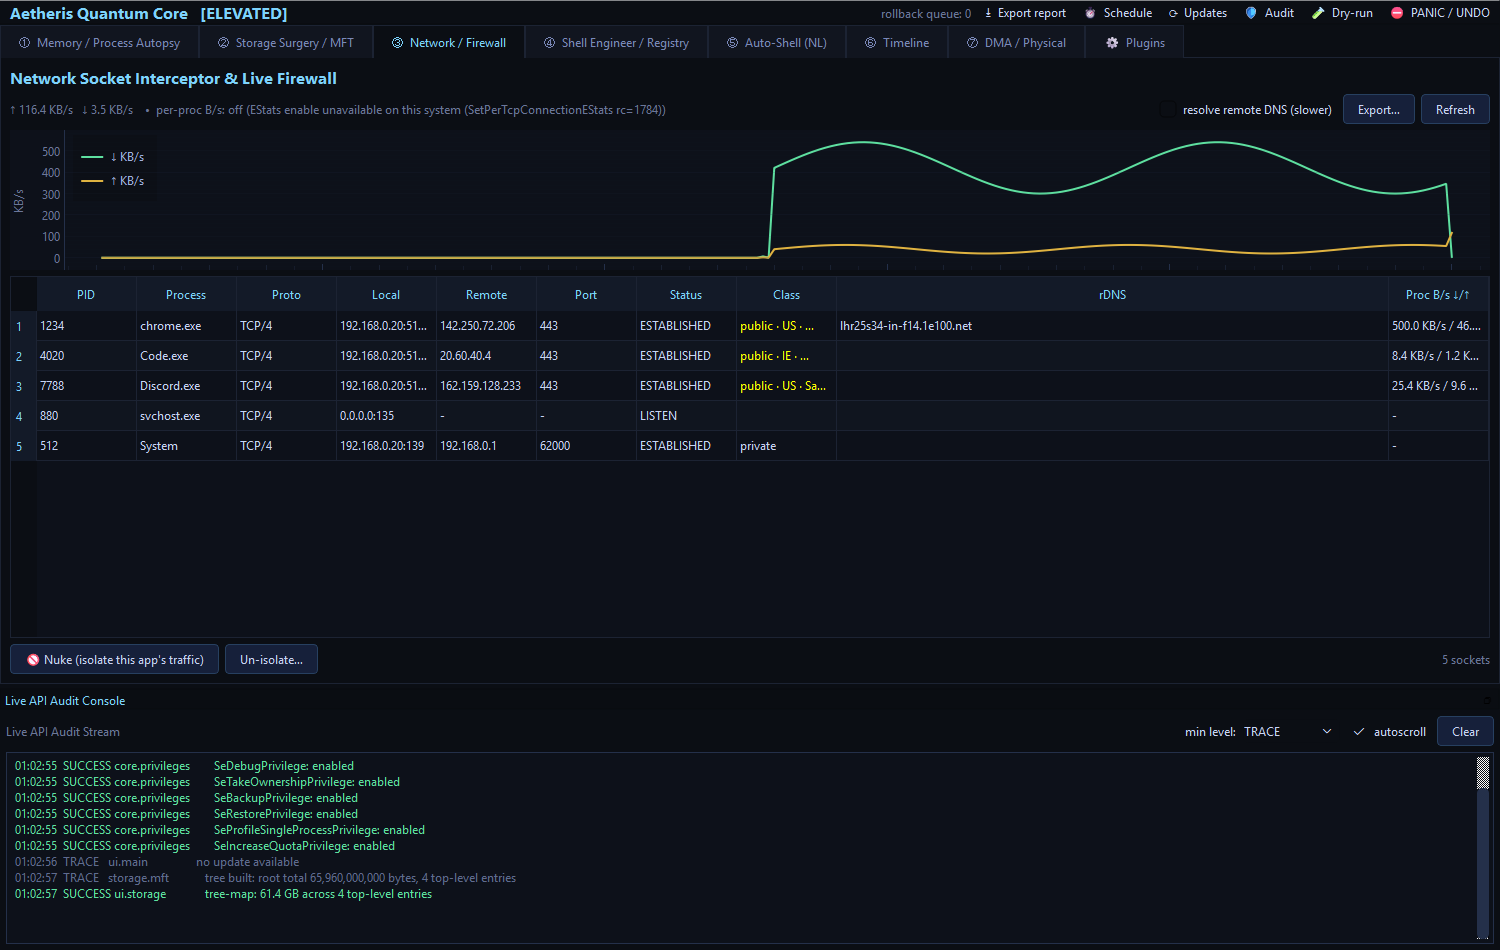
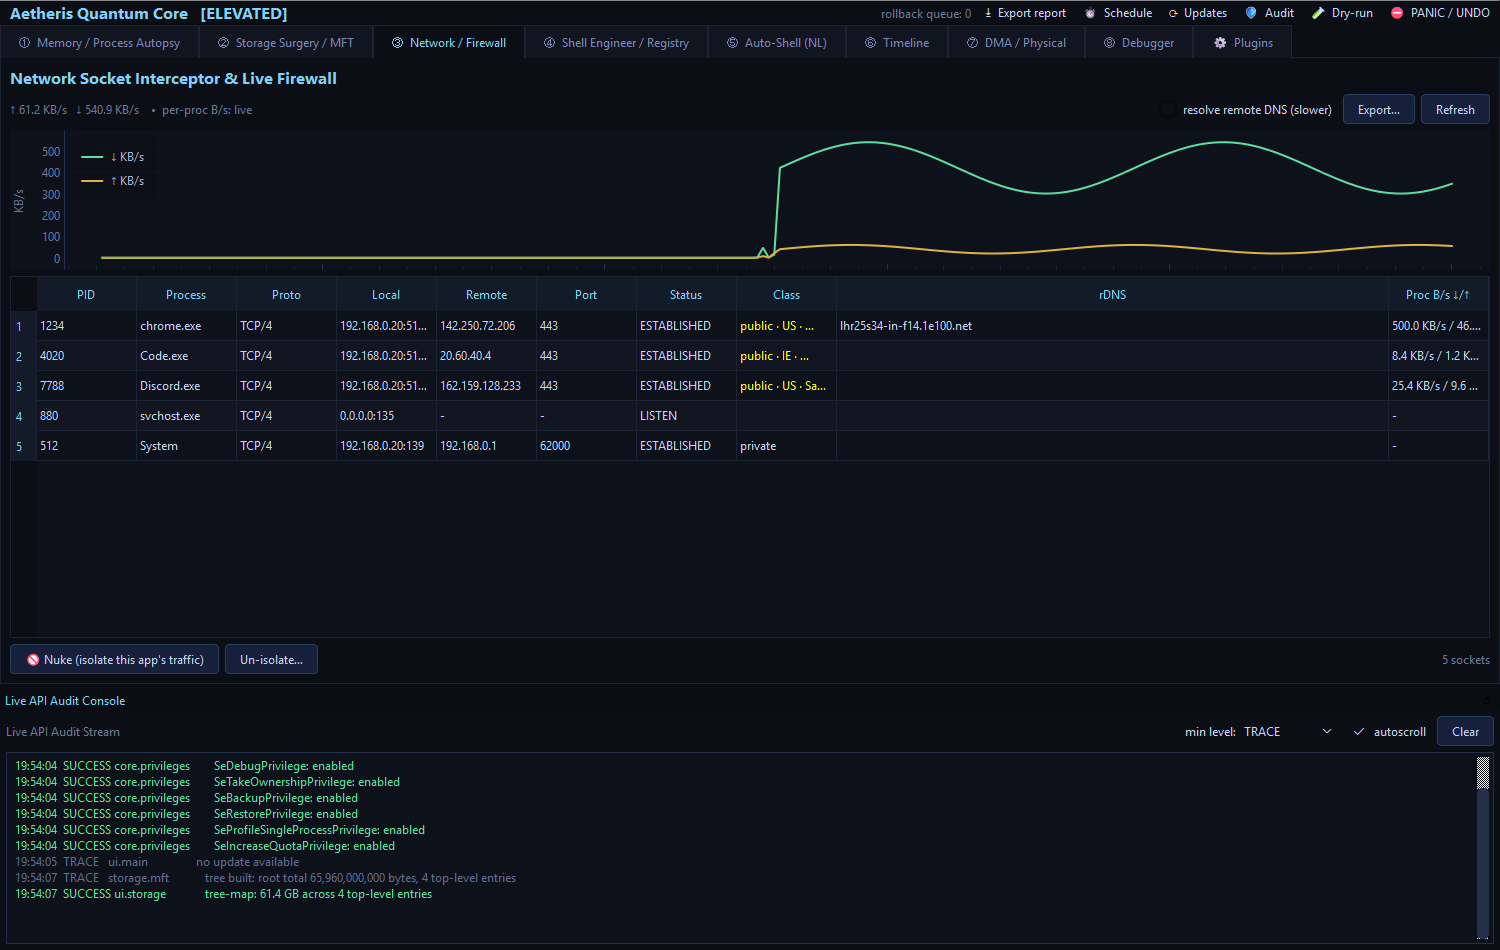
docs: Debugger tab — screenshots, README, ARCHITECTURE
Regenerated screenshots from the 9-tab UI: new 09-debugger.png (attached +
stopped at a breakpoint, register dump, memory read) and Plugins moves to
10-plugins.png; walkthrough GIF rebuilt to include it. README gains the Debugger
walkthrough cell and a feature-status row (tested pure core vs. hardware-gated
native loop), the layout tree notes forensics/debugger, and the test count is
updated to 202. ARCHITECTURE module map + diagram list the debugger module.

diff --git a/docs/make_screenshots.py b/docs/make_screenshots.py
@@ -33,7 +33,7 @@ from PyQt6.QtWidgets import QApplication, QTabWidget  # noqa: E402
 from aetheris.core import timeline as tl  # noqa: E402
 from aetheris.core.persistence import PersistenceEntry  # noqa: E402
 from aetheris.core.services import ServiceInfo  # noqa: E402
-from aetheris.forensics import memvirt  # noqa: E402
+from aetheris.forensics import debugger, memvirt  # noqa: E402
 from aetheris.forensics.memvirt import Capabilities  # noqa: E402
 from aetheris.forensics.processes import ProcessInfo  # noqa: E402
 from aetheris.network.connections import Connection  # noqa: E402
@@ -235,13 +235,42 @@ def main() -> None:
     dma_tab.out.appendPlainText("✓ wrote 4 bytes @ 0x1a2b3040")
     w.tabs.setCurrentIndex(6); pump(0.4); shot("08-dma.png")
 
-    plugins_tab = w.tabs.widget(7)
+    dbg = w.tabs.widget(7)
+    dbg.status.setText("attached to target.exe (pid 8321) — stopped at breakpoint")
+    dbg.attach_btn.setEnabled(False)
+    dbg.detach_btn.setEnabled(True)
+    dbg.cont_btn.setEnabled(True)
+    dbg.step_btn.setEnabled(True)
+    dbg.bp_addr.setText("7ff6a1b2c3d0")
+    dbg.mem_addr.setText("7ff6a1b2c3d0")
+    dbg.bp_list.setText("0x7ff6a1b2c3d0  0x7ff6a1b2c4a0")
+    regs = {"Rax": 1, "Rbx": 0x7FF6A1B30000, "Rcx": 0xC4E5AFF740, "Rdx": 0,
+            "Rsi": 0x7FF6A1B2C3D0, "Rdi": 0x140, "Rbp": 0xC4E5AFF8A0, "Rsp": 0xC4E5AFF720,
+            "Rip": 0x7FF6A1B2C3D0, "R8": 0, "R9": 0x7FFCE0000000, "R10": 0, "R11": 0x246,
+            "R12": 0, "R13": 0, "R14": 0, "R15": 0, "EFlags": 0x202}
+    for ev in ("[create-process] tid 4102", "[load-dll] tid 4102  ntdll.dll",
+               "[breakpoint] tid 4102 @ 0x7ff6a1b2c3d0"):
+        dbg.out.appendPlainText(ev)
+    dbg.out.appendPlainText("── registers ──")
+    _rline = []
+    for _i, _r in enumerate(debugger.X64_REGISTERS, 1):
+        _rline.append(f"{_r:<6} 0x{regs.get(_r, 0):016x}")
+        if _i % 3 == 0:
+            dbg.out.appendPlainText("  ".join(_rline)); _rline = []
+    if _rline:
+        dbg.out.appendPlainText("  ".join(_rline))
+    _code = bytes.fromhex("48895c2408 4889742410 57 4883ec20 488bda 488bf9 e8a4120000".replace(" ", ""))
+    dbg.out.appendPlainText("── read @ 0x7ff6a1b2c3d0 (64 bytes) ──")
+    dbg.out.appendPlainText(memvirt.format_hex(_code, base_addr=0x7FF6A1B2C3D0))
+    w.tabs.setCurrentIndex(7); pump(0.3); shot("09-debugger.png")
+
+    plugins_tab = w.tabs.widget(8)
     for i in range(plugins_tab.list.count()):
         if plugins_tab.list.item(i).text().startswith("system-gauges"):
             plugins_tab.list.setCurrentRow(i)
             plugins_tab._run()
             break
-    w.tabs.setCurrentIndex(7); pump(0.5); shot("09-plugins.png")
+    w.tabs.setCurrentIndex(8); pump(0.5); shot("10-plugins.png")
 
     if "--gif" in sys.argv:
         _build_gif()
@@ -256,7 +285,7 @@ def _build_gif() -> None:
         return
     order = ["01-memory.png", "02-storage-treemap.png", "03-network.png",
              "04-services.png", "05-persistence.png", "06-timeline.png",
-             "07-autoshell.png", "08-dma.png", "09-plugins.png"]
+             "07-autoshell.png", "08-dma.png", "09-debugger.png", "10-plugins.png"]
     imgs = []
     for f in order:
         im = Image.open(OUT / f).convert("RGB")

diff --git a/README.md b/README.md
@@ -15,7 +15,7 @@ control.
 > **Plugin API v2** (declared permissions + a hash trust-list), and a scrubbed
 > **crash reporter**. Every write is confirm-gated, reversible via PANIC, audited,
 > and dry-run-aware; long/native work runs off the UI thread. The pure layers
-> pass `mypy --strict` + `ruff` and are covered by 195 tests. Optional native
+> pass `mypy --strict` + `ruff` and are covered by 202 tests. Optional native
 > engines (MemProcFS, capstone, keystone) degrade gracefully; the one optional
 > data drop-in (a GeoLite2 DB for city-level GeoIP) is labelled in *Feature
 > status* below rather than pretending to be complete.
@@ -33,7 +33,7 @@ place of live machine data):
 | ![Network](docs/screenshots/03-network.png) **③ Network / Firewall** — socket→process table with GeoIP + per-process B/s columns, live throughput chart, "Nuke" isolation. | ![Services](docs/screenshots/04-services.png) **④ Service & Driver Inspector** — services + kernel drivers with signed/loaded status and **unquoted-service-path** privesc candidates (red); reversible start/stop/start-type. |
 | ![Persistence](docs/screenshots/05-persistence.png) **⑤ Persistence Map** — one screen unifying Run/Startup + auto/boot services + logon/boot tasks; reversible enable/disable. | ![Timeline](docs/screenshots/06-timeline.png) **⑥ Session Timeline** — periodic state snapshots; diff *any two* points (processes/ports/connections/autoruns added·removed). |
 | ![Auto-Shell](docs/screenshots/07-autoshell.png) **⑦ Auto-Shell** — plain-English → reviewed PowerShell with an intent/risk label and a mandatory confirm gate. | ![DMA](docs/screenshots/08-dma.png) **⑧ DMA / Physical** — PCILeech **FPGA** (Artix-7 100T) physical-memory read + a **guarded DMA write** (dry-run, audited, PANIC-reversible) over MemProcFS; controls stay disabled until a writable device is attached. |
-| ![Plugins](docs/screenshots/09-plugins.png) **⚙ Plugins v2** — text + widget tools with a declared **permission scope** and a hash **trust** state; untrusted runs are gated. | |
+| ![Debugger](docs/screenshots/09-debugger.png) **⑨ Debugger** — attach to a running process as a real debugger: software **breakpoints**, memory + x64 **register** read/write, single-step, live debug events; attach + writes confirmed, dry-run-aware, PANIC-reversible. | ![Plugins](docs/screenshots/10-plugins.png) **⚙ Plugins v2** — text + widget tools with a declared **permission scope** and a hash **trust** state; untrusted runs are gated. |
 
 Regenerate with `python docs/make_screenshots.py --gif`. For a live, auto-
 cycling demo to screen-record, run `python docs/demo_mode.py`. The layered
@@ -47,7 +47,8 @@ aetheris/
 │                  dry-run, Omega Rollback, registry, services, taskaudit, persistence,
 │                  timeline, plugins, scheduler, settings, reports, crash reporter
 ├── forensics/     process autopsy (+ signature), RAM matrix, Capstone/Keystone studio,
-│                  PCILeech-FPGA physical read + guarded DMA write (memvirt/dma)
+│                  PCILeech-FPGA physical read + guarded DMA write (memvirt/dma),
+│                  live debugger — attach + breakpoints + registers (debugger)
 ├── storage/       raw MFT parser, SHA-256 dedupe / ghost scan, guarded obliterator, handle strip
 ├── network/       socket→process interceptor, per-process B/s (ETW), GeoIP, firewall isolation
 ├── automation/    natural-language → reviewed PowerShell compiler
@@ -57,7 +58,7 @@ aetheris/
 run.py             entry point + UAC elevation bootstrap + headless CLI dispatch
 pyproject.toml     packaging + `aetheris` / `aetheris-cli` entry points; ruff + mypy --strict
 installer/         one-click installer, bootstrap, Inno Setup, exe build + signing
-tests/             pytest suite (195 tests) for the cores + pytest-qt UI-thread tests
+tests/             pytest suite (202 tests) for the cores + pytest-qt UI-thread tests
 ```
 
 ## Install & run
@@ -98,7 +99,7 @@ features and degrade gracefully when absent (the UI tells you what's missing).
 
 ```powershell
 pip install .[test]
-pytest                                 # 195 tests over the cores
+pytest                                 # 202 tests over the cores
 ```
 
 The suite (`tests/`) regression-guards the deterministic cores: Auto-Shell
@@ -268,6 +269,7 @@ attaches everything to the GitHub Release automatically.
 | ⑤ Auto-Shell | deterministic NL→PowerShell: find/move, kill-by-memory, kill-by-name, CPU affinity, flush DNS, empty recycle bin, clear temp, restart service, largest-files — all behind a confirm gate + a refusal guard for "kill all processes"-style inputs | still deterministic (no LLM) by design |
 | ⑥ Timeline | periodic lightweight snapshots (processes, listening ports, connections, autoruns); **diff any two points** in the session (added·removed), registry-diff-style table; pairs with the persistent audit log | — |
 | ⑦ DMA / Physical | **guarded DMA-write pipeline** — dry-run rehearsal, a before-bytes snapshot, tamper-evident audit, and PANIC-reversible rollback, behind a confirm-gated UI whose read/write controls stay disabled until a *writable* device attaches; the write / rollback / dry-run / read-only-refusal paths are unit-tested against a fake backend | **PCILeech FPGA physical read + write** (Artix-7 **100T** and similar) over **MemProcFS/LeechCore** — needs the `memprocfs` lib, the LeechCore/FTDI drivers, the card's PCILeech firmware, and an elevated token; not exercised by CI |
+| ⑧ Debugger | **live debugger** attach (`DebugActiveProcess` + SeDebugPrivilege): software breakpoints, memory + x64 register read/write, single-step, and a debug-event loop (DLL loads / exceptions / output). Attach + writes are confirmed, dry-run-aware, audited and PANIC-reversible; system-critical processes are refused; clean detach leaves the target running. The pure core (breakpoint save/restore, event decoding, RIP fix-up, trap-flag math) is unit-tested; the native loop needs an elevated on-hardware run | needs an elevated token; refuses `lsass`/`csrss`/… |
 | ⚙ Plugins v2 | text + widget tools (built-in + user `*.py`), runnable in-app and via `aetheris-cli`; each declares a **permission scope** and carries a **trust** state (built-in / trusted / modified / untrusted, via a hash trust-list); untrusted runs are confirm-gated — **disclosure + provenance, not a sandbox** | — |
 
 Environment-gated items report their status in the UI (e.g. the per-process

diff --git a/docs/ARCHITECTURE.md b/docs/ARCHITECTURE.md
@@ -16,7 +16,7 @@ flowchart TB
     end
 
     subgraph FEAT["feature layers · decoupled, no cross-imports"]
-        F["forensics<br/>processes · memory · disasm · memvirt · dma"]
+        F["forensics<br/>processes · memory · disasm · memvirt · dma · debugger"]
         S["storage<br/>mft · dedupe · unlock · handles"]
         N["network<br/>connections · firewall · etwbw · procbw · geoip"]
         A["automation<br/>nlshell"]
@@ -103,7 +103,7 @@ sequenceDiagram
 | core | `settings` / `report` / `plugins` / `scheduler` | persisted prefs; CSV/JSON/HTML/MD serializers; text+widget plugin discovery (+ permissions/trust); Task Scheduler integration |
 | core | `autoruns` / `updater` | logon/boot autostart enum + reversible disable; self-update (manifest check → stage → apply-on-next-launch) |
 | — | `cli` / `plugins/*` | headless `aetheris-cli` capture; built-in extension tools (incl. a GUI widget plugin) |
-| forensics | `processes` / `memory` / `disasm` / `memvirt` / `dma` | autopsy, RAM matrix, Capstone/Keystone, VM scanner backends, PCILeech-FPGA physical read + guarded DMA write |
+| forensics | `processes` / `memory` / `disasm` / `memvirt` / `dma` / `debugger` | autopsy, RAM matrix, Capstone/Keystone, VM scanner backends, PCILeech-FPGA physical read + guarded DMA write, live debugger (attach + breakpoints + regs) |
 | storage | `mft` / `dedupe` / `unlock` / `handles` | MFT parse + tree-map, dedupe/ghosts, Restart-Manager lockers, handle stripping |
 | network | `connections` / `firewall` / `etwbw` / `procbw` / `geoip` | socket→PID, INetFwPolicy2 isolation, ETW per-proc B/s (EStats fallback), offline GeoIP |
 | automation | `nlshell` | deterministic NL → reviewed PowerShell |
